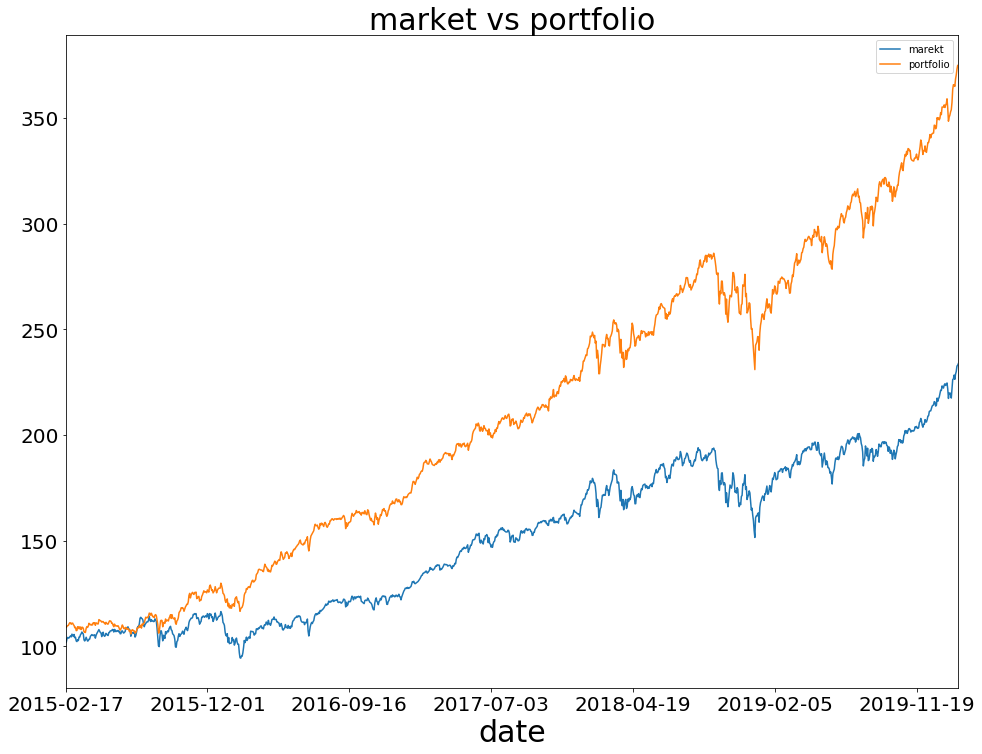
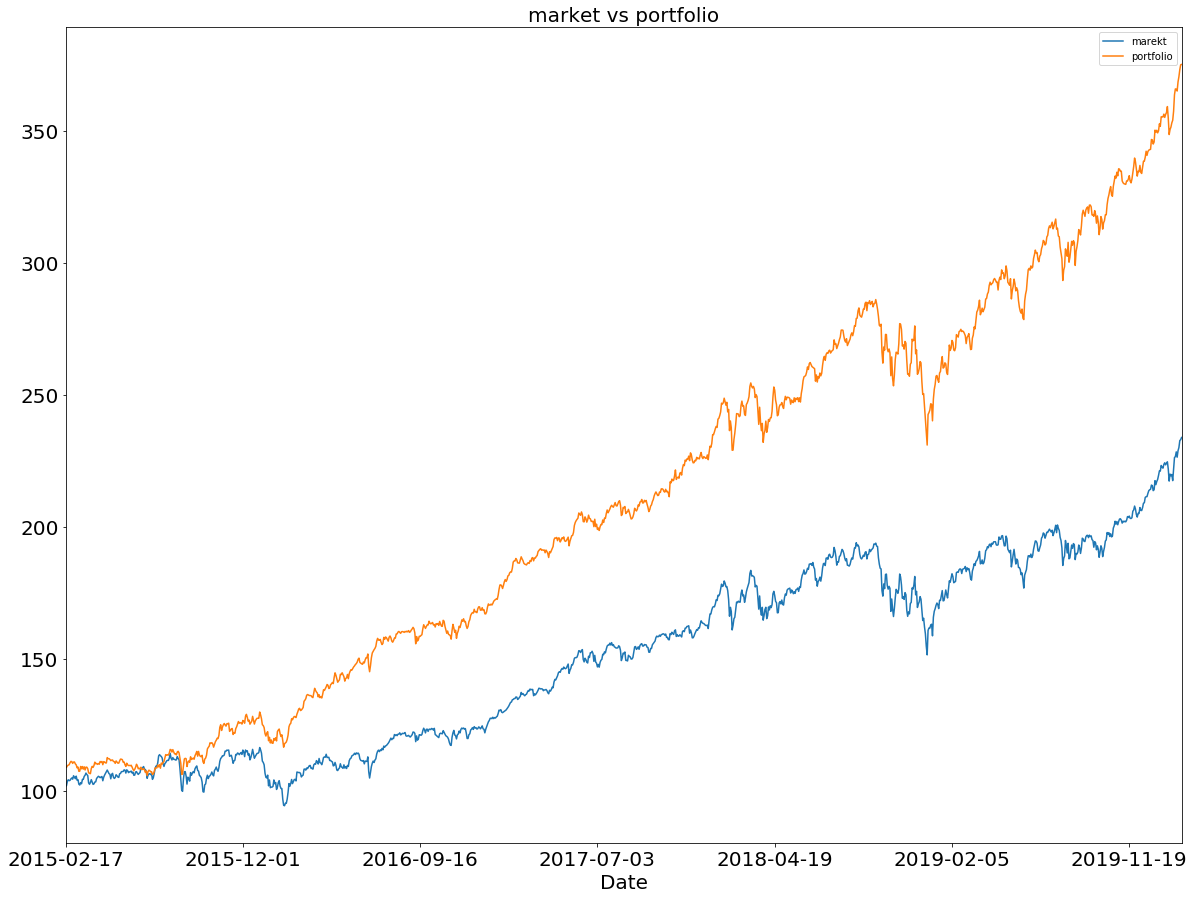
update

diff --git a/Homework 4 - PCA and eigenvector/796 4.py b/Homework 4 - PCA and eigenvector/796 4.py
@@ -116,26 +116,26 @@ if __name__ == '__main__':
     returns_hat = hw4.recover_from_PC(vector)
     port_r = returns.sum(1)/100
     port_r_hat = returns_hat.sum(1)/100
-    port_r.plot(fontsize = 30 , figsize = [20,15] , label = 'portfolio' )
-    port_r_hat.plot(fontsize = 30 , figsize = [20,15] , label = 'portfolio_hat' , )
-    plt.legend(fontsize = 30)
-    plt.xlabel('date' , fontsize = 30)
-    plt.title('daily return vs prediction from the 90% eigenvector' , fontsize = 30)
+    port_r.plot(fontsize = 20 , figsize = [20,15] , label = 'portfolio' )
+    port_r_hat.plot(fontsize = 20 , figsize = [20,15] , label = 'portfolio_hat' , )
+    plt.legend(fontsize = 20)
+    plt.xlabel('date' , fontsize = 20)
+    plt.title('daily return vs prediction from the 90% eigenvector' , fontsize = 20)
     plt.show()
     # In[]
     '''plot the difference'''
     diff = (port_r - port_r_hat)**2
     diff.plot(figsize = [20,15])
-    plt.legend(fontsize = 30)
-    plt.xlabel('data' , fontsize = 30)
-    plt.title('daily return vs prediction from the 90% eigenvector' , fontsize = 30)
+    plt.legend(fontsize = 20)
+    plt.xlabel('Date' , fontsize = 20)
+    plt.title('Daily return vs prediction from the 90% eigenvector' , fontsize = 20)
     plt.show()
     # In[]
     '''plot the best portfolio'''
     price = hw4.df.sum(1)/100
     price_port = hw4.df @ weight
-    price.plot(label = 'marekt' , fontsize = 20)
-    price_port.plot(label = 'portfolio' , fontsize = 20)
-    plt.xlabel('date', fontsize = 30)
-    plt.title('market vs portfolio' , fontsize = 30)
+    price.plot(label = 'marekt' ,  figsize = [20,15] , fontsize = 20)
+    price_port.plot(label = 'portfolio' , figsize = [20,15] ,  fontsize = 20)
+    plt.xlabel('Date', fontsize = 20)
+    plt.title('market vs portfolio' , fontsize = 20)
     plt.legend()
